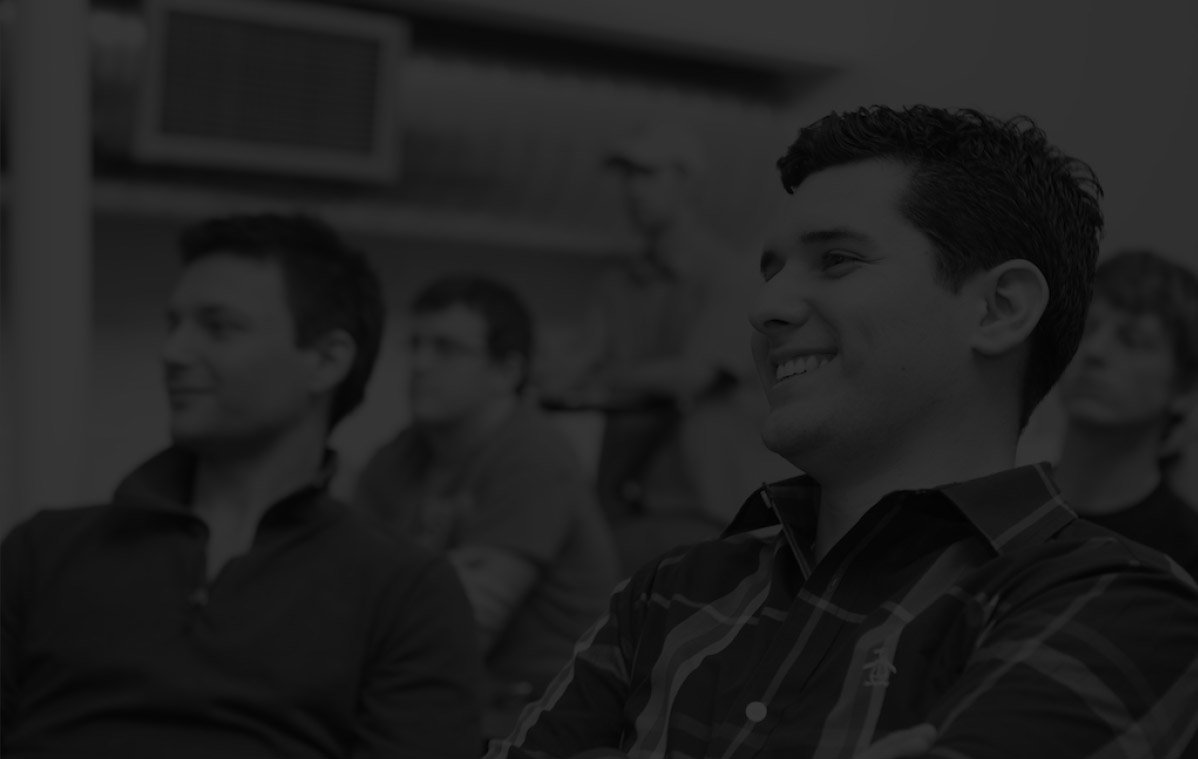
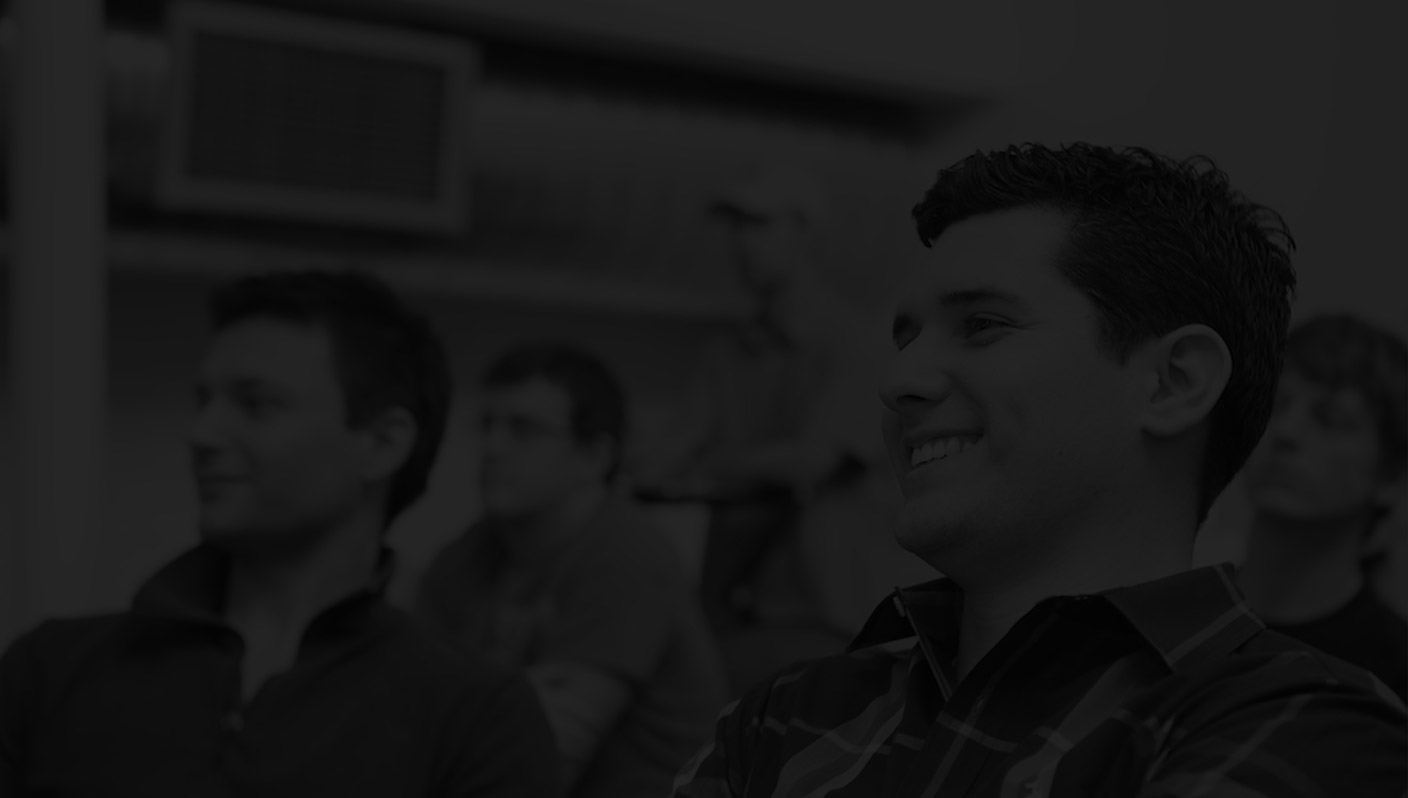
Modify intro module to match changed design
This hasn’t been made responsive yet.

diff --git a/source/stylesheets/modules/_intro.css.sass b/source/stylesheets/modules/_intro.css.sass
@@ -1,26 +1,20 @@
 .mod-intro
-  padding: 108px 0 146px
+  padding: 250px 45px 105px
   text-align: center
   color: #fff
   background: #333 image-url("bg_intro.jpg") center center no-repeat
   background-size: cover
 
-  h1
-    width: 307px
-    height: 361px
-    display: inline-block
-    margin-bottom: 95px
-    background: image-url("logo.png") no-repeat
-    background-size: 100%
-    +hide-text
+  h2,
+  p
+    max-width: 620px
+    margin: 0 auto
 
-    +retina
-      background-image: image-url("logo@2x.png")
+  h2
+    margin-bottom: 25px
+    font-size: 48px
+    font-weight: $font-weight-light
 
-  +max-width(400px)
-    padding: 50px 0
-
-    .backgroundsize & h1
-      width: 307px * 0.8
-      height: 361px * 0.8
-      margin-bottom: 60px
+  p
+    margin-bottom: 35px
+    line-height: 1.57142

diff --git a/source/stylesheets/components/_button.css.sass b/source/stylesheets/components/_button.css.sass
@@ -1,7 +1,7 @@
 .button
   display: inline-block
   margin: 0
-  padding: 15px 25px
+  padding: 15px 50px
   font-size: 12px
   font-weight: $font-weight-bold
   text-decoration: none
